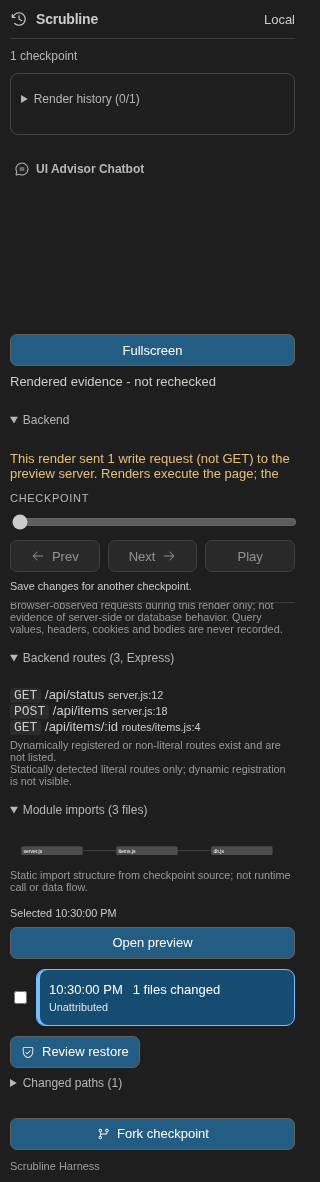
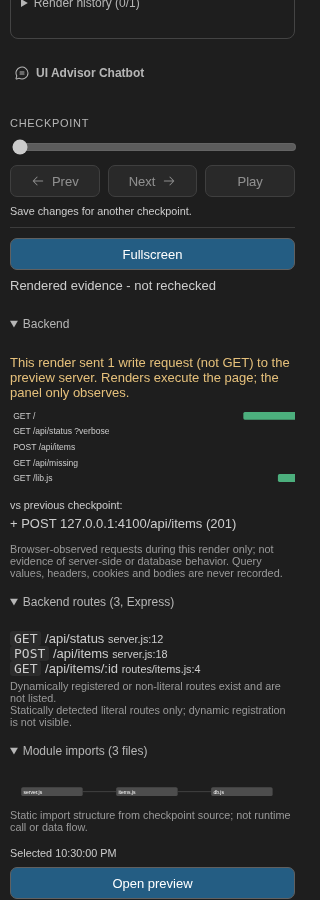
backend panel: readable waterfall at narrow widths (inner scroll, min-width), overlap ruled out with bbox assertion, evidence regenerated

diff --git a/spikes/host-panel/test/ui/backend.spec.ts b/spikes/host-panel/test/ui/backend.spec.ts
@@ -115,13 +115,22 @@ test('backend panel renders waterfall, routes, graph and honest labels', async (
 });
 
 test('backend panel evidence screenshots wide and narrow', async ({ page }) => {
-  await page.setViewportSize({ width: 960, height: 700 });
+  await page.setViewportSize({ width: 960, height: 900 });
   await openBackend(page);
   await page.locator('details.backend-endpoints summary').click();
   await page.locator('details.backend-modules summary').click();
-  await page.screenshot({ path: `${evidenceDir}/backend_panel_wide.png`, fullPage: true });
-  await page.setViewportSize({ width: 320, height: 700 });
-  await page.screenshot({ path: `${evidenceDir}/backend_panel_narrow.png`, fullPage: true });
+  // Viewport screenshots: fullPage stitching misdraws the sticky scrub bar.
+  await page.locator('details.backend-panel').scrollIntoViewIfNeeded();
+  await page.screenshot({ path: `${evidenceDir}/backend_panel_wide.png`, fullPage: false });
+  await page.setViewportSize({ width: 320, height: 900 });
+  await page.locator('details.backend-panel').scrollIntoViewIfNeeded();
+  await page.screenshot({ path: `${evidenceDir}/backend_panel_narrow.png`, fullPage: false });
+  // No real overlap: scrub controls sit above the backend panel in flow.
+  const boxes = await page.evaluate(() => {
+    const rect = (sel: string) => document.querySelector(sel)!.getBoundingClientRect();
+    return { scrub: rect('.scrub'), backend: rect('details.backend-panel') };
+  });
+  expect(boxes.backend.top).toBeGreaterThanOrEqual(boxes.scrub.top);
   // Narrow: waterfall stays inside the panel, no horizontal page scroll.
   const overflow = await page.evaluate(
     () => document.documentElement.scrollWidth - document.documentElement.clientWidth

diff --git a/spikes/host-panel/src/webview/styles.css b/spikes/host-panel/src/webview/styles.css
@@ -1179,15 +1179,22 @@ table-layout: fixed;
 .backend-panel {
   margin-top: 8px;
   text-align: left;
+  min-width: 0;
 }
 .backend-view {
   display: flex;
   flex-direction: column;
   gap: 8px;
   padding: 6px 0;
+  min-width: 0;
+}
+.backend-waterfall {
+  overflow-x: auto;
+  min-width: 0;
 }
 .backend-waterfall svg {
   width: 100%;
+  min-width: 560px;
   height: auto;
   display: block;
 }
